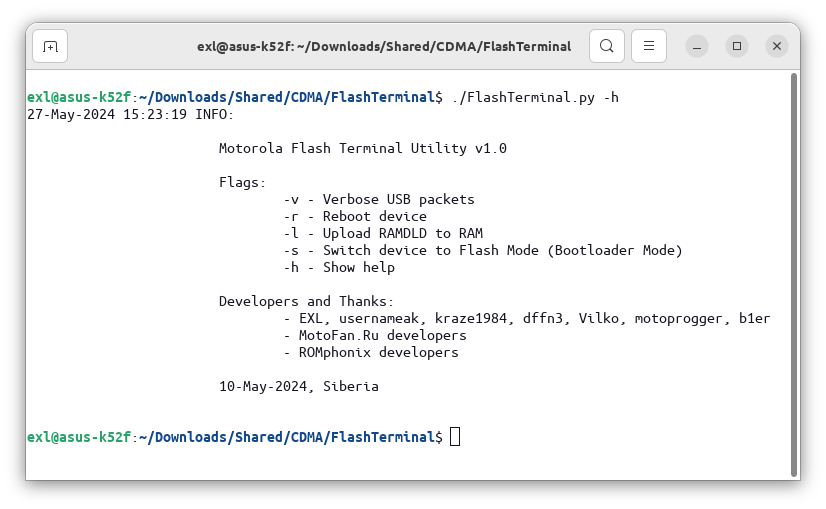
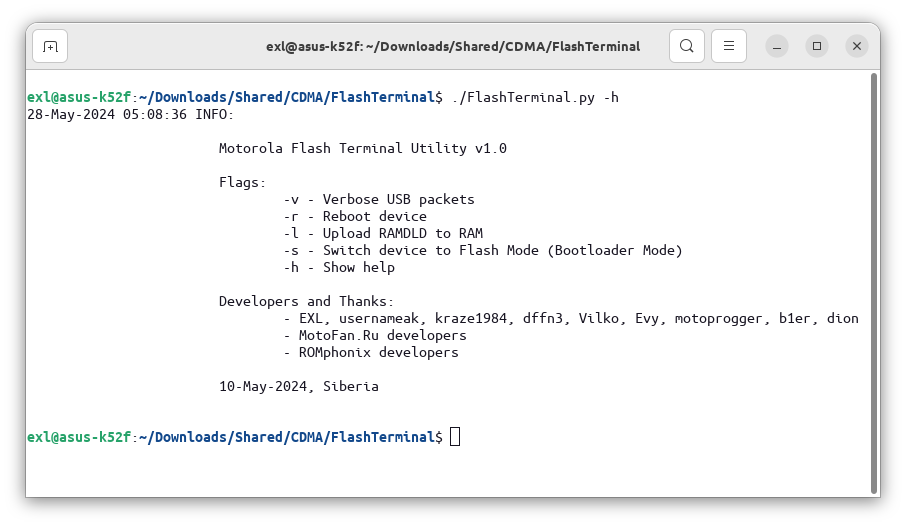
Update credits and screenshot

diff --git a/FlashTerminal.py b/FlashTerminal.py
@@ -70,7 +70,7 @@ def worksheet(er, ew):
 #		mfp_upload_binary_to_addr(er, ew, 'QA30_RAMDLD_0206_Patched_Dump_SRAM.ldr', 0x002F0000, 0x002F0000)
 #		mfp_upload_binary_to_addr(er, ew, 'QA30_RAMDLD_0206_Patched_Dump_NAND.ldr', 0x002F0000, 0x002F0000)
 #		mfp_upload_binary_to_addr(er, ew, 'QA30_RAMDLD_0206_Patched_Dump_NAND_WIDE.ldr', 0x002F0000, 0x002F0000)
-#		mfp_upload_binary_to_addr(er, ew, 'A830_RAMDLD_0520_Patched_Dump_NOR.ldr', 0x07800000, 0x07800010)
+		mfp_upload_binary_to_addr(er, ew, 'A830_RAMDLD_0520_Patched_Dump_NOR.ldr', 0x07800000, 0x07800010)
 #		mfp_upload_binary_to_addr(er, ew, 'A835_RAMDLD_0612_Hacked_RSA_Read.ldr', 0x08000000, 0x08000010)
 		time.sleep(1.0)
 
@@ -83,7 +83,7 @@ def worksheet(er, ew):
 #	mfp_dump_sram(er, ew, 'V9m_SRAM_Dump.bin', 0x00000000, 0x08000000, 0x30)
 #	mfp_dump_sram(er, ew, 'MSM_IRAM_Dump.bin', 0xFFFF0000, 0xFFFFFFFF, 0x10)
 #	mfp_dump_sram_1byte(er, ew, 'A830_IROM_Dump.bin', 0x00000000, 0x00010000)
-#	mfp_dump_sram(er, ew, 'U10_ROM_Dump.bin', 0x10000000, 0x11000000, 0x30)
+	mfp_dump_sram(er, ew, 'U10_ROM_Dump.bin', 0x10000000, 0x11000000, 0x30)
 
 	# Dump NAND data (64 MiB / 128 MiB / 256 MiB) and spare area.
 	# Chunks are 528 bytes == 512 bytes is NAND page size + 16 bytes is NAND spare area.
@@ -429,7 +429,7 @@ def main():
 				-h - Show help
 
 			Developers and Thanks:
-				- EXL, usernameak, kraze1984, dffn3, Vilko, motoprogger, b1er
+				- EXL, usernameak, kraze1984, dffn3, Vilko, Evy, motoprogger, b1er, dion
 				- MotoFan.Ru developers
 				- ROMphonix developers
 

diff --git a/ReadMe.md b/ReadMe.md
@@ -69,7 +69,7 @@ mfp_dump_nand(er, ew, 'QA30_NAND_Dump.bin', 0, int(0x04000000 / 512), 0x10, 4)
 
 ## Developers & Thanks
 
-- EXL, usernameak, kraze1984, dffn3, Vilko, motoprogger, b1er
+- EXL, usernameak, kraze1984, dffn3, Vilko, Evy, motoprogger, b1er, dion
 - MotoFan.Ru developers
 - ROMphonix developers
 
